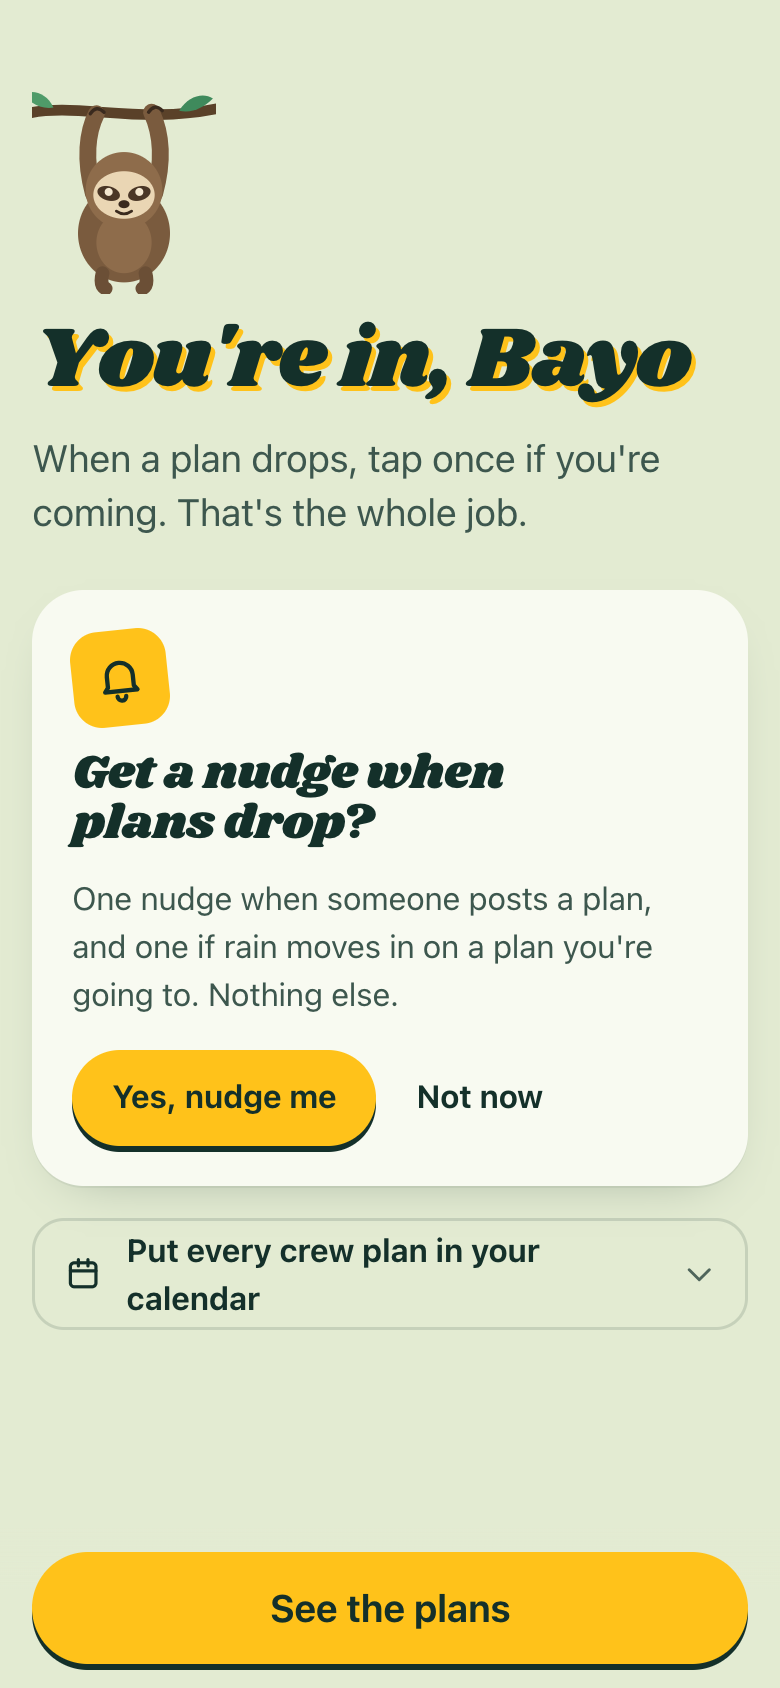
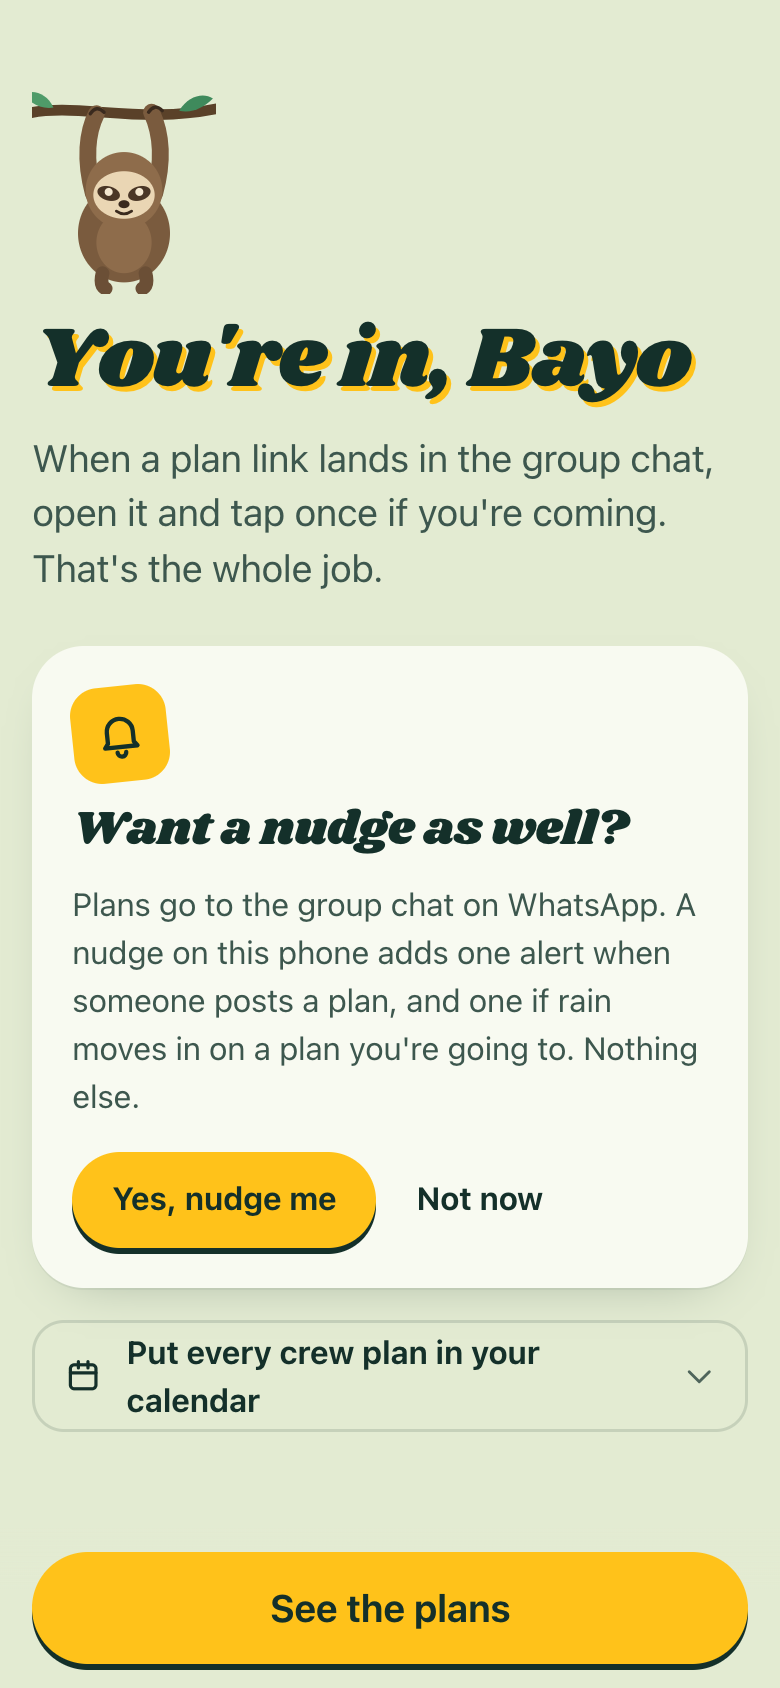
Screens regenerated: rides with Bolt and inDrive, the covered rain pick, WhatsApp first, and the Opera Mini page
The real-data screens were taken again on 21 Oct 2026 against a live server (Gemma, Photon,
Overpass, OSRM, Open-Meteo, an Eventbrite event); the ride card screen is now
16-plan-going-rides-estimate.png and the Uber one is gone. The demo plan screens are
regenerated by the new scripts/screens-mock.mjs. The README shows the new screens and links
docs/LOCAL-FACTS.md.

diff --git a/README.md b/README.md
@@ -12,13 +12,16 @@ Lagos, where the hard part of meeting up is rarely the wanting. It is the asking
 waiting for answers, the choosing of a place and the traffic.
 
 <p>
-  <img src="docs/screens/real/17-crew-home.png" width="260" alt="A crew's home screen: the sloth picked Tinubu Square on Saturday morning, moved to dodge the rain, with three plans coming up">
-  <img src="docs/screens/real/19-ritual-rain.png" width="260" alt="The sloth's plan, with a note that rain is likely in the afternoon so it moved to the morning">
-  <img src="docs/screens/real/16-plan-going-uber-estimate.png" width="260" alt="A ride card: leave Yaba by 12:10pm, about 33 minutes, an estimate, with how the guess was made and an Uber button">
+  <img src="docs/screens/real/17-crew-home.png" width="260" alt="A crew's home screen: rain is likely all Saturday afternoon, so the sloth picked Nike Art Gallery, somewhere with a roof, from 3 to 6pm">
+  <img src="docs/screens/real/19-ritual-rain.png" width="260" alt="The sloth's plan at Nike Art Gallery, with the note that rain is likely from 3 pm to 6:30 pm (up to 90%), and Entry: check at the gate">
+  <img src="docs/screens/real/16-plan-going-rides-estimate.png" width="260" alt="A ride card: leave Yaba by 11:25am, about 17 minutes, a rough estimate from a 6.2 km road route, with Copy address and buttons for Bolt and inDrive">
 </p>
 
-Screens from a real run on 21 Oct 2026 with live Gemma, Photon, Overpass and Open-Meteo.
-More in [docs/screens/real](docs/screens/real).
+Screens from a real run on 21 Oct 2026 with live Gemma, Photon, Overpass, OSRM and
+Open-Meteo. More in [docs/screens/real](docs/screens/real), including the plain page Opera
+Mini gets ([23-opera-mini-basic-plan.png](docs/screens/real/23-opera-mini-basic-plan.png)).
+What the app claims about Lagos, and where each claim comes from, is in
+[docs/LOCAL-FACTS.md](docs/LOCAL-FACTS.md).
 
 ## What it does
 
@@ -102,7 +105,7 @@ For the real thing, copy `.env.example` to `.env`, add `GEMINI_API_KEY`
 (aistudio.google.com/apikey) and run `npm run dev`.
 
 ```sh
-npm test                 # 99 tests: core, adapters, service and the HTTP API
+npm test                 # 127 tests: core, adapters, service and the HTTP API
 npm run typecheck        # tsc over the JSDoc types
 npm run e2e -- http://localhost:3000 <event link>   # the whole flow against a running server
 ```
@@ -122,6 +125,7 @@ checks after deploy, and the list of things to try on a real phone are in
 - [docs/SPEC.md](docs/SPEC.md): the product and the API contract
 - [docs/DESIGN.md](docs/DESIGN.md): the look (a hand-painted Lagos afternoon)
 - [docs/NOTES.md](docs/NOTES.md): engineering notes, live test results and open items
+- [docs/LOCAL-FACTS.md](docs/LOCAL-FACTS.md): every claim about Lagos, with its source and the date it was checked
 
 ## Credits
 

diff --git a/docs/NOTES.md b/docs/NOTES.md
@@ -90,7 +90,7 @@ Not found in OSM under their names on 21 Oct 2026: Elegushi Beach (only a road),
 
 ```sh
 npm install
-npm test               # 99 tests: core, adapters (fakes and a local HTTP server), service, API end to end
+npm test               # 127 tests: core, adapters (fakes and a local HTTP server), service, API end to end
 npm run typecheck      # tsc over the JSDoc types
 npm run dev            # http://localhost:3000, reads .env; serves web/dist too when it is built
 OFFLINE=1 npm run dev  # no keys, no network: fakes for every outside service
@@ -100,6 +100,7 @@ node scripts/events-check.mjs <url> ...     # real event pages through the link 
 npm run e2e -- <base> <event link>          # the whole flow over HTTP (scripts/e2e.mjs)
 node scripts/push-check.mjs <base>          # real Web Push through headless Chrome and FCM
 node scripts/screens-real.mjs <base> docs/screens/real <event link>   # screenshots on live data
+node scripts/screens-mock.mjs <base> docs/screens                    # the plan screens on the demo data
 ```
 
 The web dev server (Vite) proxies `/api`, `/cal` and `/healthz` to port 3000.
